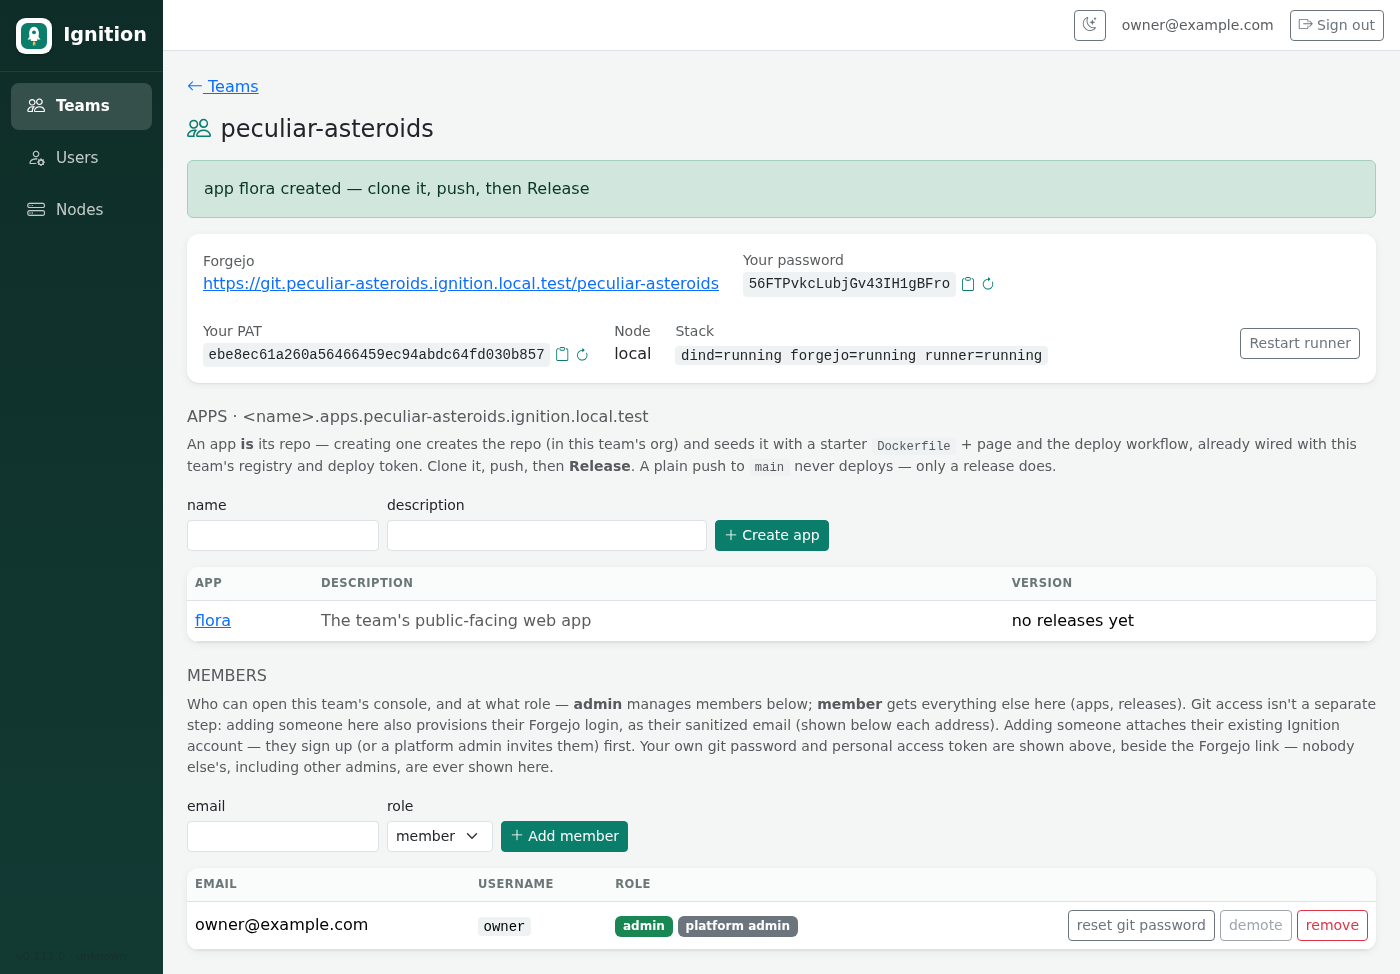
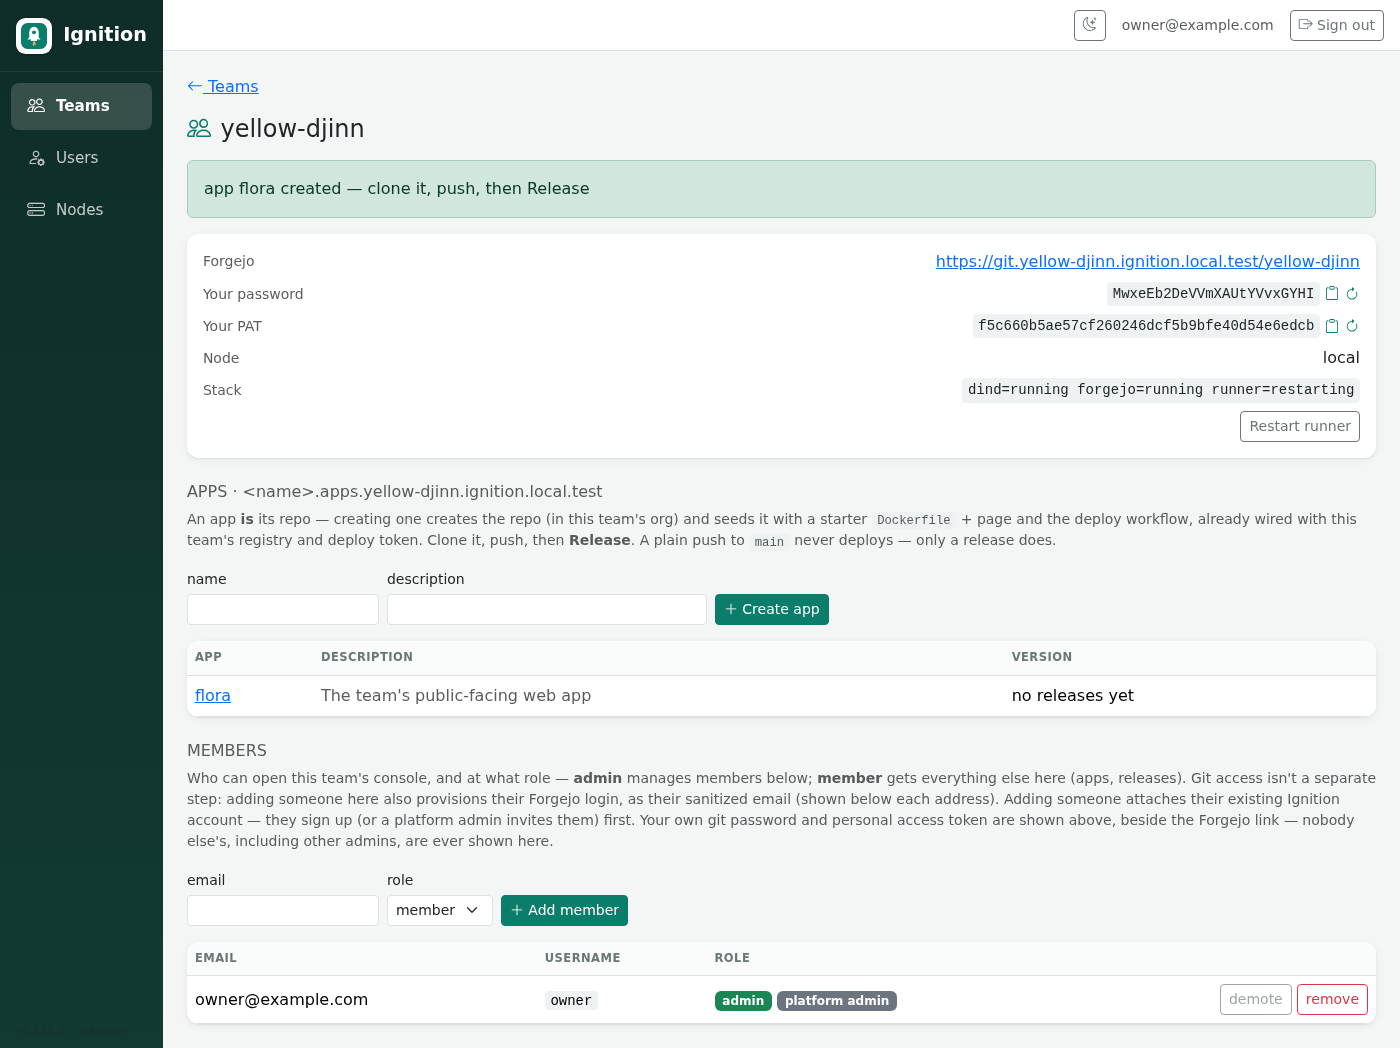
Drop the redundant admin reset-password button; stack the top card; v0.111.1
Every member can already regenerate their own git password/PAT
themselves (the icons on the top card) — the admin-only "reset git
password" button in the Members table's actions column was only ever
for resetting *someone else's*, and there's no real case for that once
self-service covers it. Removed. (The endpoint itself still accepts an
admin resetting another member's password via requireSelfOrZoneAdmin —
just no UI button drives that anymore.)

Top card (Forgejo / Your password / Your PAT / Node / Stack / Restart
runner) was a flex-wrap row that wrapped unpredictably depending on
viewport width and how many optional fields were present. Restructured
into one explicit row per item (d-flex justify-content-between,
label left, value right), in a fixed order — deterministic regardless
of window size, and Restart runner is its own trailing row instead of
riding along the same line as Stack.

Screenshot in docs/roles.md regenerated to match (same live-instance
process as before).

Claude-Session: https://claude.ai/code/session_01GEgvkxp9vBPD5rwkWEt4vM

diff --git a/ignition-control/src/main/resources/templates/zone.html b/ignition-control/src/main/resources/templates/zone.html
@@ -9,13 +9,13 @@
       <div class="alert alert-success" th:if="${param.m != null}" th:text="${param.m[0]}">ok</div>
 
       <div class="card mb-4">
-        <div class="card-body d-flex flex-wrap align-items-center gap-4">
-          <div>
-            <div class="text-body-secondary small">Forgejo</div>
+        <div class="card-body d-flex flex-column gap-2">
+          <div class="d-flex justify-content-between align-items-center">
+            <span class="text-body-secondary small">Forgejo</span>
             <a th:href="${zone.forgejoUrl + zoneSlug}" th:text="${zone.forgejoUrl + zoneSlug}">git…</a>
           </div>
-          <div th:if="${myGitPassword != null}">
-            <div class="text-body-secondary small">Your password</div>
+          <div th:if="${myGitPassword != null}" class="d-flex justify-content-between align-items-center">
+            <span class="text-body-secondary small">Your password</span>
             <span class="d-inline-flex align-items-center gap-1">
               <code th:text="${myGitPassword}">••••••••</code>
               <button type="button" class="btn btn-sm btn-link p-0 ign-copy-btn"
@@ -30,8 +30,8 @@
               </form>
             </span>
           </div>
-          <div th:if="${myGitPat != null}">
-            <div class="text-body-secondary small">Your PAT</div>
+          <div th:if="${myGitPat != null}" class="d-flex justify-content-between align-items-center">
+            <span class="text-body-secondary small">Your PAT</span>
             <span class="d-inline-flex align-items-center gap-1">
               <code th:text="${myGitPat}" style="word-break:break-all">••••••••</code>
               <button type="button" class="btn btn-sm btn-link p-0 ign-copy-btn"
@@ -46,15 +46,15 @@
               </form>
             </span>
           </div>
-          <div>
-            <div class="text-body-secondary small">Node</div>
+          <div class="d-flex justify-content-between align-items-center">
+            <span class="text-body-secondary small">Node</span>
             <span th:text="${zone.node} ?: '?'">node-1</span>
           </div>
-          <div>
-            <div class="text-body-secondary small">Stack</div>
+          <div class="d-flex justify-content-between align-items-center">
+            <span class="text-body-secondary small">Stack</span>
             <code th:text="${stack}">—</code>
           </div>
-          <form method="post" th:action="@{/teams/{slug}/runner/restart(slug=${zoneSlug})}" class="ms-auto">
+          <form method="post" th:action="@{/teams/{slug}/runner/restart(slug=${zoneSlug})}" class="text-end">
             <button class="btn btn-sm btn-outline-secondary">Restart runner</button>
           </form>
         </div>
@@ -143,10 +143,6 @@
                 <span th:if="${m.platformAdmin}" class="badge text-bg-secondary">platform admin</span>
               </td>
               <td class="text-end text-nowrap" th:if="${canManageMembers}">
-                <form method="post" th:action="@{/teams/{slug}/members/reset-git-password(slug=${zoneSlug})}" class="d-inline">
-                  <input type="hidden" name="userId" th:value="${m.userId}">
-                  <button class="btn btn-sm btn-outline-secondary">reset git password</button>
-                </form>
                 <form method="post" th:action="@{/teams/{slug}/members/role(slug=${zoneSlug})}" class="d-inline">
                   <input type="hidden" name="userId" th:value="${m.userId}">
                   <input type="hidden" name="role" th:value="${m.role.name() == 'ZONE_ADMIN'} ? 'MEMBER' : 'ZONE_ADMIN'">
